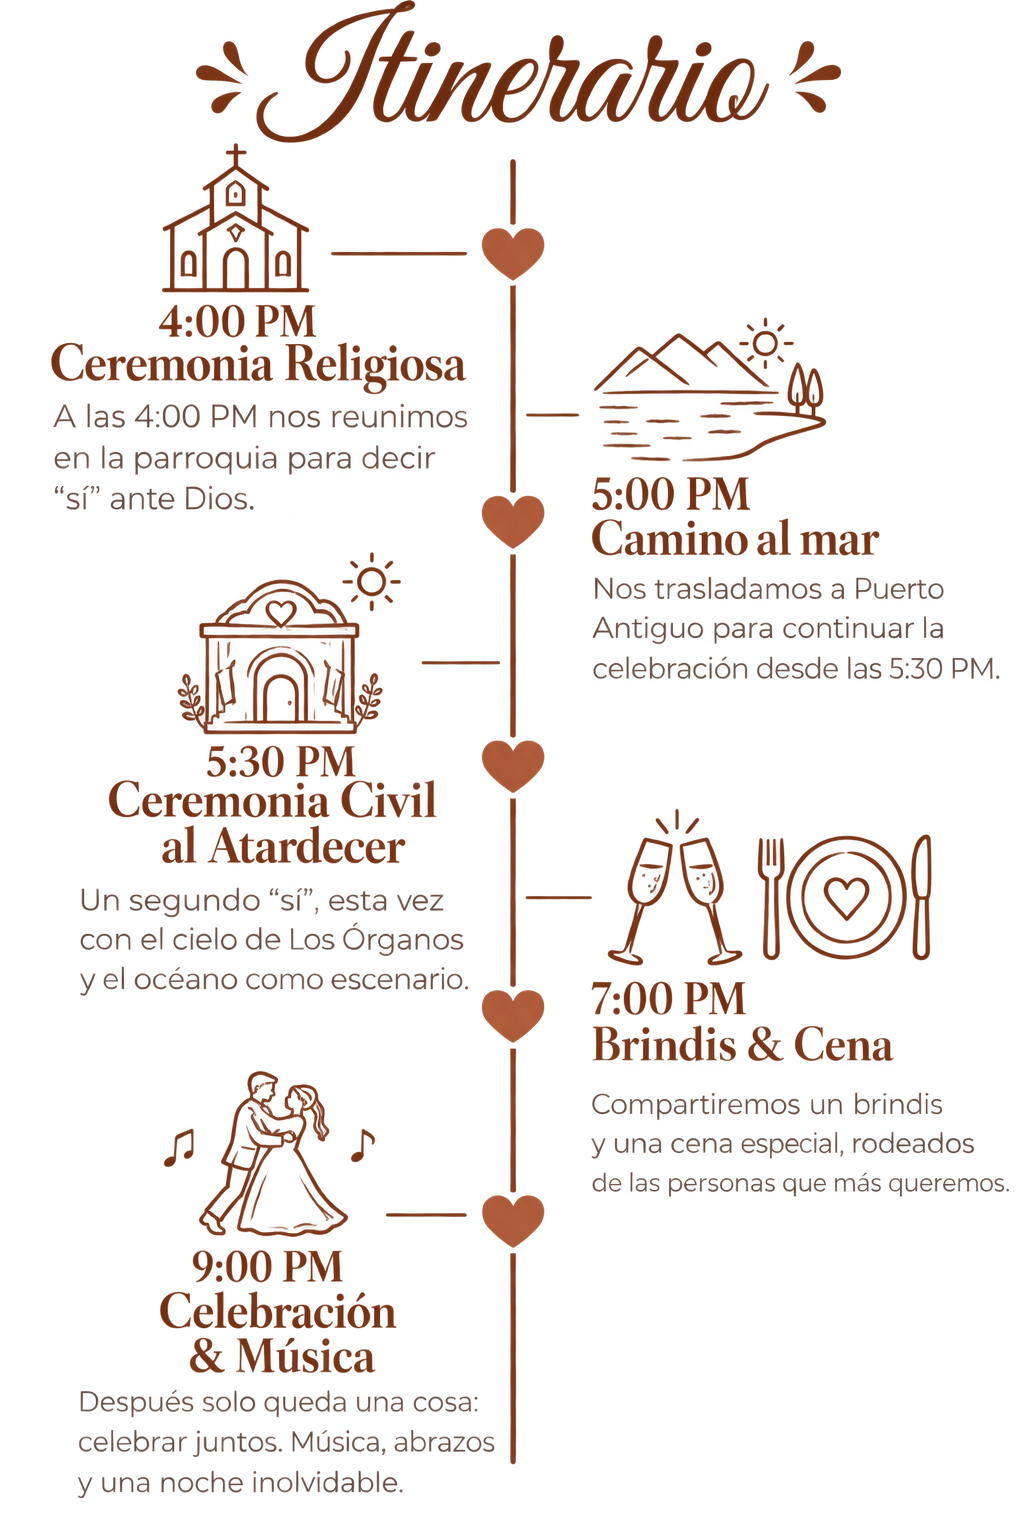
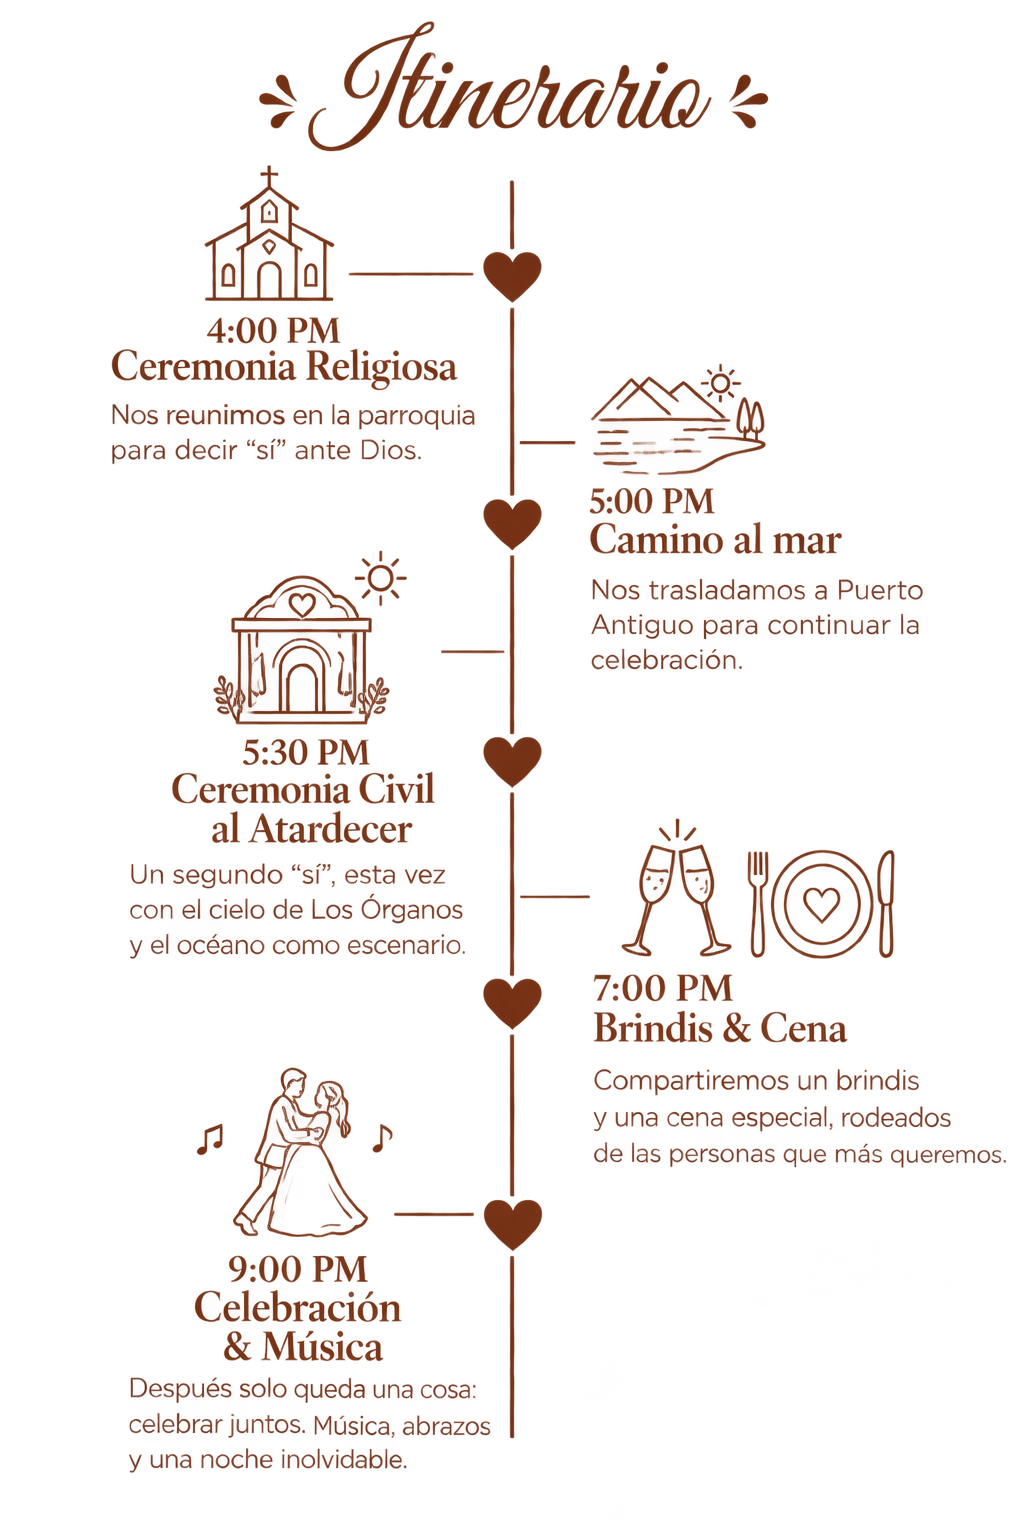
Actualizar versiculo a 1 Corintios 13:4-7, relieve en textos y animacion fluida del sello

diff --git a/styles.css b/styles.css
@@ -15,6 +15,40 @@ html, body {
 body {
     color: var(--espresso);
     -webkit-font-smoothing: antialiased;
+    text-rendering: optimizeLegibility;
+}
+
+/* Efecto Letterpress / Grabado en Papel Artesanal (Más notorio y profundo) */
+main#main-content p,
+main#main-content span,
+main#main-content a,
+main#main-content button,
+main#main-content h1,
+main#main-content h2,
+main#main-content h3 {
+    text-shadow: 0 1.5px 1px rgba(255, 255, 255, 0.95),
+                 0 2px 4px rgba(255, 255, 255, 0.6),
+                 0 -1px 2px rgba(62, 39, 35, 0.35),
+                 1px 1px 2px rgba(62, 39, 35, 0.15);
+}
+
+/* Títulos terracota con grabado más profundo */
+main#main-content .text-terracotta {
+    text-shadow: 0 1.5px 1px rgba(255, 255, 255, 0.95),
+                 0 2px 5px rgba(255, 255, 255, 0.7),
+                 0 -1px 2px rgba(141, 64, 36, 0.45),
+                 1px 1px 2px rgba(62, 39, 35, 0.2);
+}
+
+/* Números grandes y títulos de alto impacto */
+main#main-content .text-2xl,
+main#main-content .text-3xl,
+main#main-content .text-4xl,
+main#main-content .text-7xl {
+    text-shadow: 0 2px 1px rgba(255, 255, 255, 1),
+                 0 3px 6px rgba(255, 255, 255, 0.8),
+                 0 -1.5px 2.5px rgba(62, 39, 35, 0.45),
+                 2px 2px 4px rgba(62, 39, 35, 0.25);
 }
 
 .bg-fixed-wedding {
@@ -85,15 +119,19 @@ body.no-scroll {
     opacity: 0;
 }
 
-/* Seal Pulse Animation */
-@keyframes pulse {
-    0% { transform: scale(1) translate(-50%, -50%); }
-    50% { transform: scale(1.08) translate(-46%, -46%); }
-    100% { transform: scale(1) translate(-50%, -50%); }
+/* Seal Breathing / Scale Animation (Suave, fluido y 100% opaco) */
+@keyframes sealBreathe {
+    0%, 100% {
+        transform: translate(-50%, -50%) scale(1);
+    }
+    50% {
+        transform: translate(-50%, -50%) scale(1.09);
+    }
 }
 
 .seal-pulse {
-    animation: pulse 2s infinite cubic-bezier(0.25, 0.1, 0.25, 1);
+    animation: sealBreathe 2.4s ease-in-out infinite;
+    opacity: 1 !important;
 }
 
 /* Custom 3D Drop Shadow for PNG photos */

diff --git a/index.html b/index.html
@@ -103,9 +103,9 @@
 
         <!-- TITLE SECTION -->
         <section class="relative flex flex-col items-center text-center pt-32 pb-12 z-20">
-            <p class="reveal text-sm tracking-ultrawide uppercase text-terracotta mb-4 font-medium">Colosenses 3:14</p>
+            <p class="reveal text-sm tracking-ultrawide uppercase text-terracotta mb-4 font-medium">1 Corintios 13:4-7</p>
             <p class="reveal text-base md:text-lg text-espresso/90 max-w-sm px-6 mb-16 italic leading-[1.8]">
-                “Y sobre todo esto, vestíos de amor, que es el vínculo perfecto.”
+                “El amor es paciente, es bondadoso. El amor no es envidioso ni orgulloso... Todo lo disculpa, todo lo cree, todo lo espera, todo lo soporta”
             </p>
             
             <p class="reveal text-2xl md:text-3xl font-bold tracking-ultrawide uppercase text-espresso mb-10">¡Nos Casamos!</p>
